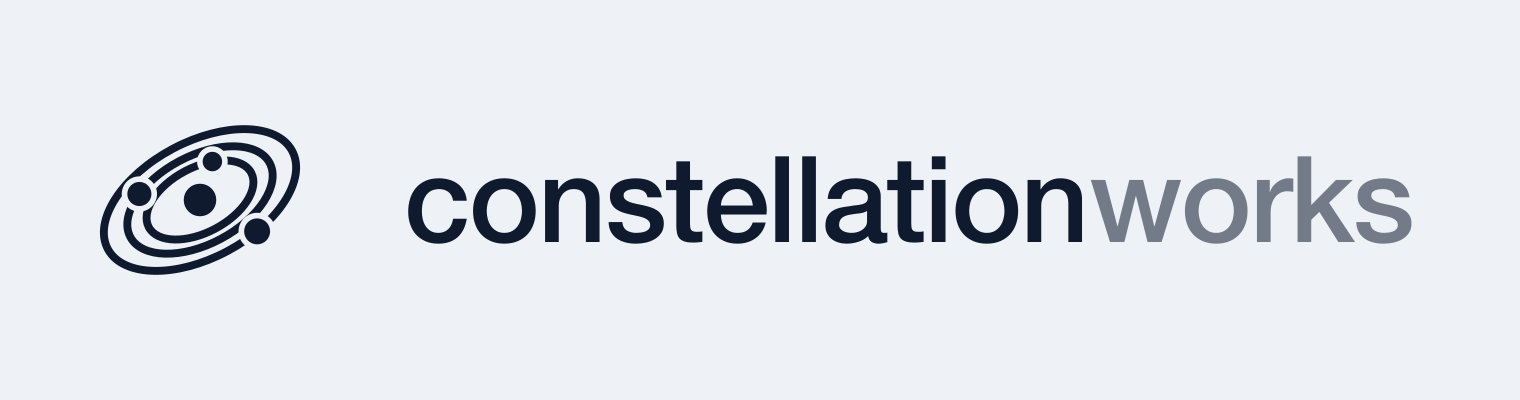
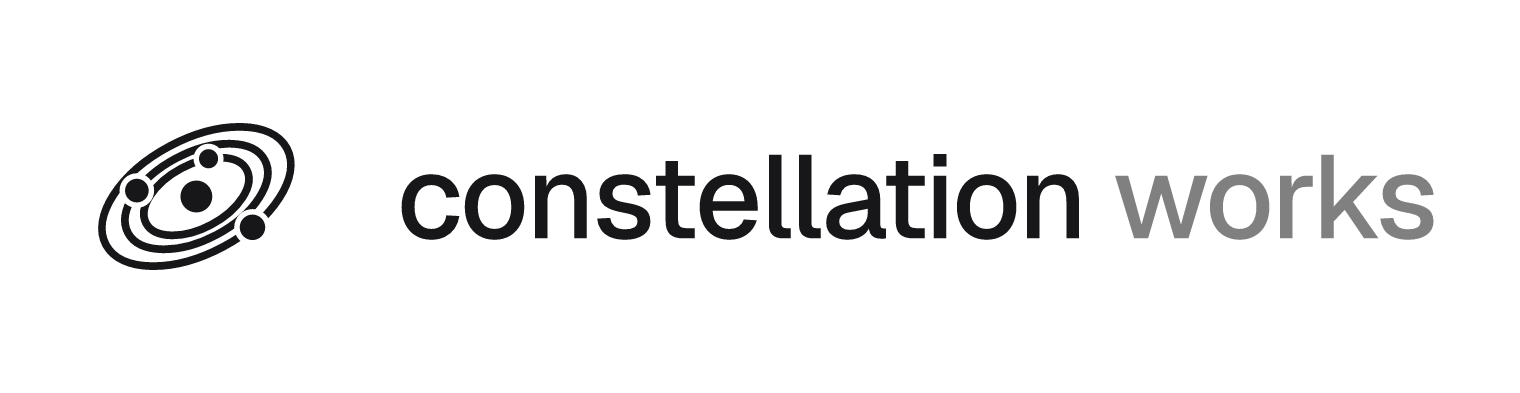
Apply the Constellation Works brand v1
Rename the site to Constellation Works in title and link previews,
describe Orbit as a local-first runtime for coding agents, move to the
brand's Geist type and the Orbit website's colour tokens, and re-copy
the regenerated logo assets (new palette, Geist wordmarks).

Changed region(s): [[0.2474, 0.3969, 0.9586, 0.6107], [0.0618, 0.3053, 0.2164, 0.7023]]

diff --git a/public/index.html b/public/index.html
@@ -3,80 +3,80 @@
 <head>
 <meta charset="utf-8">
 <meta name="viewport" content="width=device-width, initial-scale=1">
-<title>Constellation — local-first tools and research</title>
-<meta name="description" content="Orbit, the engineering framework for AI coding agents, and the reproducible research tooling built on top of it.">
+<title>Constellation Works — local-first tools and research</title>
+<meta name="description" content="Constellation Works builds Orbit, a local-first runtime for coding agents, and the research tooling taking shape beside it.">
 <link rel="icon" href="/favicon.svg" type="image/svg+xml">
 <link rel="apple-touch-icon" href="/brand/png/cw-favicon-180.png">
-<meta property="og:title" content="Constellation">
-<meta property="og:description" content="A family of independent, local-first repositories. Separate repos, one front door.">
+<meta property="og:title" content="Constellation Works">
+<meta property="og:description" content="Constellation Works builds Orbit, a local-first runtime for coding agents, and the research tooling taking shape beside it.">
 <meta property="og:type" content="website">
 <meta property="og:url" content="https://constellation-works.com/">
 <meta property="og:image" content="https://constellation-works.com/brand/png/cw-lockup-light-1520.png">
 <meta name="twitter:card" content="summary_large_image">
 <link rel="preconnect" href="https://fonts.googleapis.com">
 <link rel="preconnect" href="https://fonts.gstatic.com" crossorigin>
-<link rel="stylesheet" href="https://fonts.googleapis.com/css2?family=IBM+Plex+Mono:wght@400;500&display=swap">
+<link rel="stylesheet" href="https://fonts.googleapis.com/css2?family=Geist:wght@400;500;600&family=Geist+Mono:wght@400;500&display=swap">
 <style>
 /* Light is the base palette; the dark field is the primary direction and takes
    over under prefers-color-scheme, with [data-theme] winning in both directions. */
 :root {
-  --bg: #EEF2F7;
-  --fg: #0F1A2E;
-  --lede: #33415C;
-  --muted: #5A6880;
-  --eyebrow: #5A6880;
-  --rule: #D4DCE8;
-  --rule-strong: #C6D0E0;
-  --card: #FFFFFF;
-  --card-rule: #D4DCE8;
-  --link: #2C5FA8;
-  --link-hover: #0F1A2E;
-  --num: #2C5FA8;
-  --btn-fg: #EEF2F7;
-  --glow-1: rgba(44, 95, 168, .16);
-  --glow-2: rgba(44, 95, 168, .06);
-  --glow-0: rgba(238, 242, 247, 0);
-  --sans: "Helvetica Neue", Helvetica, system-ui, sans-serif;
-  --mono: "IBM Plex Mono", ui-monospace, SFMono-Regular, Menlo, Consolas, monospace;
+  --bg: #FFFFFF;
+  --fg: #17171A;
+  --lede: #30313A;
+  --muted: #5F606B;
+  --eyebrow: #5F606B;
+  --rule: #ECEEF3;
+  --rule-strong: #D8DBE2;
+  --card: #F4F5F8;
+  --card-rule: #D8DBE2;
+  --link: #2F67D8;
+  --link-hover: #173B84;
+  --num: #2F67D8;
+  --btn-fg: #FFFFFF;
+  --glow-1: rgba(47, 103, 216, .12);
+  --glow-2: rgba(47, 103, 216, .04);
+  --glow-0: rgba(255, 255, 255, 0);
+  --sans: "Geist", ui-sans-serif, system-ui, sans-serif;
+  --mono: "Geist Mono", ui-monospace, SFMono-Regular, Menlo, Consolas, monospace;
   --maxw: 1180px;
 }
 @media (prefers-color-scheme: dark) {
   :root:not([data-theme="light"]) {
-    --bg: #0B1526;
-    --fg: #EEF2F7;
-    --lede: #A8B6CE;
-    --muted: #8E9CB4;
-    --eyebrow: #6E7F9C;
-    --rule: #1B2942;
-    --rule-strong: #2A3A58;
-    --card: #131F35;
-    --card-rule: #22304C;
-    --link: #8FB4EC;
-    --link-hover: #C3D8F6;
-    --num: #2C5FA8;
-    --btn-fg: #0B1526;
-    --glow-1: rgba(44, 95, 168, .28);
-    --glow-2: rgba(44, 95, 168, .10);
-    --glow-0: rgba(11, 21, 38, 0);
+    --bg: #0A0A0A;
+    --fg: #EDEDF0;
+    --lede: #C7C7CC;
+    --muted: #9B9BA3;
+    --eyebrow: #9B9BA3;
+    --rule: #1B1B21;
+    --rule-strong: #26262B;
+    --card: #17171A;
+    --card-rule: #26262B;
+    --link: #8AB3FF;
+    --link-hover: #C9DDFF;
+    --num: #6E9FFF;
+    --btn-fg: #0A0A0A;
+    --glow-1: rgba(110, 159, 255, .16);
+    --glow-2: rgba(110, 159, 255, .05);
+    --glow-0: rgba(10, 10, 10, 0);
   }
 }
 :root[data-theme="dark"] {
-  --bg: #0B1526;
-  --fg: #EEF2F7;
-  --lede: #A8B6CE;
-  --muted: #8E9CB4;
-  --eyebrow: #6E7F9C;
-  --rule: #1B2942;
-  --rule-strong: #2A3A58;
-  --card: #131F35;
-  --card-rule: #22304C;
-  --link: #8FB4EC;
-  --link-hover: #C3D8F6;
-  --num: #2C5FA8;
-  --btn-fg: #0B1526;
-  --glow-1: rgba(44, 95, 168, .28);
-  --glow-2: rgba(44, 95, 168, .10);
-  --glow-0: rgba(11, 21, 38, 0);
+  --bg: #0A0A0A;
+  --fg: #EDEDF0;
+  --lede: #C7C7CC;
+  --muted: #9B9BA3;
+  --eyebrow: #9B9BA3;
+  --rule: #1B1B21;
+  --rule-strong: #26262B;
+  --card: #17171A;
+  --card-rule: #26262B;
+  --link: #8AB3FF;
+  --link-hover: #C9DDFF;
+  --num: #6E9FFF;
+  --btn-fg: #0A0A0A;
+  --glow-1: rgba(110, 159, 255, .16);
+  --glow-2: rgba(110, 159, 255, .05);
+  --glow-0: rgba(10, 10, 10, 0);
 }
 
 * { box-sizing: border-box; }
@@ -117,8 +117,9 @@ header {
 .bar { display: flex; align-items: center; gap: 16px; height: 76px; }
 .brand { display: flex; align-items: center; gap: 11px; text-decoration: none; margin-right: auto; }
 .brand svg { width: 30px; height: 30px; display: block; }
-.brand b { font-weight: 600; letter-spacing: -.02em; font-size: 17px; white-space: nowrap; }
-.brand b span { color: var(--muted); font-weight: 500; }
+/* Matches the logo lockup: Geist 500, lowercase, second word muted. */
+.brand b { font-weight: 500; letter-spacing: -.02em; font-size: 17px; white-space: nowrap; }
+.brand b span { color: var(--muted); }
 nav { display: flex; gap: 26px; font-size: 15px; }
 nav a { color: var(--muted); text-decoration: none; }
 nav a:hover { color: var(--fg); }
@@ -176,7 +177,7 @@ h1 .second { color: var(--muted); }
 .install .copy[hidden] { display: none; }
 .install .copy:hover, .install .copy[data-state="ok"] { color: var(--link); }
 .install .copy:focus-visible { outline: 2px solid var(--link); outline-offset: 2px; }
-.install .copy[data-state="error"] { color: #C0392B; }
+.install .copy[data-state="error"] { color: #B3261E; }
 :root[data-theme="dark"] .install .copy[data-state="error"] { color: #FF9D9D; }
 @media (prefers-color-scheme: dark) { :root:not([data-theme="light"]) .install .copy[data-state="error"] { color: #FF9D9D; } }
 .sr-only { border: 0; clip-path: inset(50%); height: 1px; overflow: hidden; padding: 0; position: absolute; white-space: nowrap; width: 1px; }
@@ -342,9 +343,9 @@ footer .sp { margin-left: auto; display: flex; gap: 20px; }
       <p class="eyebrow">Local-first engineering for AI coding agents</p>
       <h1>Separate repos,<br><span class="second">one front door.</span></h1>
       <p class="lede">
-        Independent, local-first projects: an engineering framework for AI coding
-        agents, and the tools taking shape beside it — code graphs, idea lineage,
-        reproducible research.
+        Independent, local-first projects: Orbit, a runtime for coding agents, and
+        the tools taking shape beside it — code graphs, idea lineage, reproducible
+        research.
       </p>
       <div class="install">
         <span class="prompt" aria-hidden="true">$</span>
@@ -417,7 +418,7 @@ footer .sp { margin-left: auto; display: flex; gap: 20px; }
 
       <article class="card">
         <div class="top"><h3>Orbit</h3><span class="tag">Rust · released</span></div>
-        <p>The engineering framework for AI coding agents. A durable task for every change,
+        <p>A local-first runtime for coding agents. A durable task for every change,
         structured audit of every tool call, conflict-aware parallel dispatch, and continuous
         review sweeps that file findings back into the backlog.</p>
         <div class="links">
@@ -462,7 +463,7 @@ footer .sp { margin-left: auto; display: flex; gap: 20px; }
 
 <footer>
   <div class="wrap">
-    <span>&copy; 2026 constellation works</span>
+    <span>&copy; 2026 Constellation Works</span>
     <span class="sp">
       <a href="https://github.com/constellation-works/homebrew-tap">Homebrew tap</a>
       <a href="https://github.com/constellation-works">github.com/constellation-works</a>
